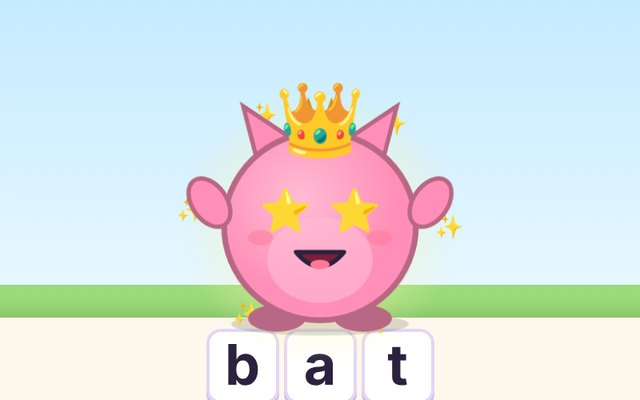
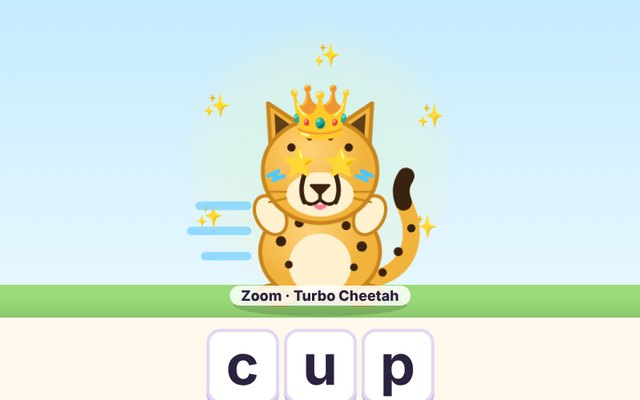
Word Pet: the pet is now a cheetah that evolves (cub, young, big, turbo, mega)
Claude-Session: https://claude.ai/code/session_013W1ysGY7CE9QdHXVdGaYx1

Changed region(s): [[0.2812, 0.09, 0.7188, 0.96], [0.5938, 0.87, 0.6562, 1.0], [0.4688, 0.87, 0.5312, 0.96]]

diff --git a/games/pet/index.html b/games/pet/index.html
@@ -102,11 +102,11 @@ const save=()=>{try{localStorage.setItem(SKEY,JSON.stringify(S))}catch(e){}};
 (function decay(){const h=(Date.now()-(S.lastFed||Date.now()))/36e5;S.food=Math.max(0,Math.round(S.food-h*8));S.lastFed=Date.now();save()})();
 setInterval(()=>{S.food=Math.max(0,S.food-1);S.lastFed=Date.now();save();drawPet();meters()},450000);
 
-const STAGES=[{at:0,n:'Egg',em:'🥚'},{at:5,n:'Baby',em:'🐣'},{at:30,n:'Little',em:'🌱'},{at:80,n:'Big',em:'🌿'},{at:160,n:'Super',em:'⭐'},{at:300,n:'Mega',em:'👑'}];
+const STAGES=[{at:0,n:'Egg',em:'🥚'},{at:5,n:'Cub',em:'🐾'},{at:30,n:'Young Cheetah',em:'🐆'},{at:80,n:'Big Cheetah',em:'🐆'},{at:160,n:'Turbo Cheetah',em:'⚡'},{at:300,n:'Mega Cheetah',em:'👑'}];
 const stageOf=w=>{let s=0;STAGES.forEach((x,i)=>{if(w>=x.at)s=i});return s};
 const GIFTS=[{id:'bow',n:'a bow',em:'🎀'},{id:'shades',n:'cool glasses',em:'🕶'},{id:'cap',n:'a cap',em:'🧢'},{id:'flower',n:'a flower',em:'🌸'},{id:'tophat',n:'a top hat',em:'🎩'},{id:'crown',n:'a crown',em:'👑'},{id:'cape',n:'a hero cape',em:'🦸'},{id:'party',n:'a party hat',em:'🥳'}];
 const COLORS=['#FF8FB8','#7FD3FF','#9BE36D','#FFB547','#B79BFF','#5FE0C8'];
-const NAMES=[['Ziggy','⚡'],['Mochi','🍡'],['Bloop','💧'],['Pip','🌟']];
+const NAMES=[['Zoom','⚡'],['Spots','🐾'],['Dash','💨'],['Rocket','🚀']];
 
 /* ================= speech ================= */
 let voice=null;function pv(){try{const v=speechSynthesis.getVoices().filter(v=>/^en/i.test(v.lang));voice=v.find(x=>/samantha|google us english|aria|jenny|ava|allison/i.test(x.name))||v.find(x=>/en.us/i.test(x.lang))||v[0]||null}catch(e){}}
@@ -125,43 +125,60 @@ function mood(){const h=new Date().getHours();if(S.stage===0)return'egg';if(mood
 let moodOverride=null;
 function shade(hex,f){const n=parseInt(hex.slice(1),16);let r=n>>16,g=n>>8&255,b=n&255;const c=v=>Math.max(0,Math.min(255,Math.round(f<0?v*(1+f):v+(255-v)*f)));return'#'+((1<<24)+(c(r)<<16)+(c(g)<<8)+c(b)).toString(16).slice(1)}
 function accNow(){const a=S.acc.slice(-20);return a.length?a.reduce((x,y)=>x+y,0)/a.length:0}
-function drawPet(){const svg=$('#pet');const st=S.stage,md=mood(),c=S.color||'#FF8FB8',d=shade(c,-.28),l=shade(c,.4);let o='';
+/* the cheetah: egg, then cub, young, big cat, turbo and mega, drawn fresh for each mood */
+const SPOTS=[[78,70,3.2],[92,62,2.6],[108,62,2.6],[122,70,3.2],[100,56,2.2],[70,142,4],[84,128,3.5],[120,130,3.5],[132,146,4],[76,160,3],[126,162,3],[100,124,3]];
+function drawPet(){const svg=$('#pet');const st=S.stage,md=mood();let o='';
+ const G='#F2B33D',GD='#C9851C',CR='#FFF1D0',DK='#3A2210';
  const acc=accNow(),aura=st>0&&S.acc.length>=8?(acc>=.9?2:acc>=.75?1:0):0;
- o+=`<defs><radialGradient id="g1" cx="40%" cy="35%"><stop offset="0" stop-color="${l}"/><stop offset="1" stop-color="${c}"/></radialGradient><radialGradient id="au"><stop offset="0" stop-color="#FFF6B0" stop-opacity=".9"/><stop offset="1" stop-color="#FFF6B0" stop-opacity="0"/></radialGradient></defs>`;
- o+=`<ellipse cx="100" cy="190" rx="${st===0?38:44+st*6}" ry="8" fill="rgba(0,0,0,.15)"/>`;
- if(st===0){const cr=Math.min(5,S.words);o+=`<ellipse cx="100" cy="125" rx="52" ry="64" fill="url(#g1)" stroke="${d}" stroke-width="4"/><circle cx="80" cy="105" r="9" fill="${l}"/><circle cx="118" cy="140" r="12" fill="${l}"/><circle cx="112" cy="92" r="6" fill="${l}"/>`;
-  if(cr>=2)o+=`<path d="M70 120l10 8 8-10 10 10" fill="none" stroke="${d}" stroke-width="4" stroke-linecap="round"/>`;if(cr>=4)o+=`<path d="M108 100l8 10 10-6 6 12" fill="none" stroke="${d}" stroke-width="4" stroke-linecap="round"/>`;
-  svg.innerHTML=o;return}
- const R=Math.min(80,46+st*7),cy=190-R*1.02;
- if(aura)o+=`<circle cx="100" cy="${cy}" r="${R*1.45}" fill="url(#au)" opacity="${aura===2?1:.55}"/>`;
- if(aura===2)for(let i=0;i<6;i++){const a=i/6*6.28+Date.now()/3000;o+=`<text x="${100+Math.cos(a)*R*1.35}" y="${cy+Math.sin(a)*R*1.2}" font-size="16" text-anchor="middle">✨</text>`}
- if(S.wear==='cape')o+=`<path d="M${100-R*.7} ${cy-R*.2}Q100 ${cy+R*1.3} ${100+R*.7} ${cy-R*.2}L${100+R*.95} ${cy+R}L${100-R*.95} ${cy+R}Z" fill="#E23A5A"/>`;
- if(st>=4){o+=`<path d="M${100-R*.8} ${cy}C${100-R*1.8} ${cy-R*.9} ${100-R*1.9} ${cy+R*.3} ${100-R*.85} ${cy+R*.35}Z" fill="${l}" stroke="${d}" stroke-width="3"/><path d="M${100+R*.8} ${cy}C${100+R*1.8} ${cy-R*.9} ${100+R*1.9} ${cy+R*.3} ${100+R*.85} ${cy+R*.35}Z" fill="${l}" stroke="${d}" stroke-width="3"/>`}
- if(st>=2){o+=`<path d="M${100-R*.62} ${cy-R*.55}L${100-R*.8} ${cy-R*1.25}L${100-R*.2} ${cy-R*.85}Z" fill="${c}" stroke="${d}" stroke-width="3"/><path d="M${100+R*.62} ${cy-R*.55}L${100+R*.8} ${cy-R*1.25}L${100+R*.2} ${cy-R*.85}Z" fill="${c}" stroke="${d}" stroke-width="3"/>`}
- /* feet + body */
- o+=`<ellipse cx="${100-R*.45}" cy="186" rx="${R*.3}" ry="${R*.14}" fill="${d}"/><ellipse cx="${100+R*.45}" cy="186" rx="${R*.3}" ry="${R*.14}" fill="${d}"/>`;
- o+=`<ellipse cx="100" cy="${cy}" rx="${R}" ry="${R*.98}" fill="url(#g1)" stroke="${d}" stroke-width="4"/><ellipse cx="100" cy="${cy+R*.35}" rx="${R*.55}" ry="${R*.45}" fill="${l}" opacity=".6"/>`;
- if(st>=3)o+=`<path d="M${100-R*.25} ${cy-R*.92}L${100-R*.12} ${cy-R*1.3}L100 ${cy-R*.95}L${100+R*.12} ${cy-R*1.3}L${100+R*.25} ${cy-R*.92}" fill="#FFD23F" stroke="#C79A12" stroke-width="2"/>`;
- if(st>=5)o+=`<circle cx="100" cy="${cy+R*.3}" r="${R*.14}" fill="#FFD23F" stroke="#C79A12" stroke-width="2"/>`;
- /* arms */
- const up=md==='excited';o+=`<ellipse cx="${100-R*.98}" cy="${cy+(up?-R*.3:R*.15)}" rx="${R*.18}" ry="${R*.28}" fill="${c}" stroke="${d}" stroke-width="3" transform="rotate(${up?-35:20} ${100-R*.98} ${cy})"/><ellipse cx="${100+R*.98}" cy="${cy+(up?-R*.3:R*.15)}" rx="${R*.18}" ry="${R*.28}" fill="${c}" stroke="${d}" stroke-width="3" transform="rotate(${up?35:-20} ${100+R*.98} ${cy})"/>`;
- /* face by mood */
- const ex=R*.36,ey=cy-R*.15,er=R*.2;
- if(md==='sleepy'){o+=`<path d="M${100-ex-er} ${ey}q${er} ${er*.6} ${er*2} 0M${100+ex-er} ${ey}q${er} ${er*.6} ${er*2} 0" stroke="#2B2240" stroke-width="4" fill="none" stroke-linecap="round"/><text x="${100+R*.9}" y="${cy-R*.9}" font-size="22" font-weight="800" fill="#7A5CFF">z z</text>`}
- else if(md==='excited'){[-1,1].forEach(s=>o+=`<text x="${100+s*ex}" y="${ey+er*.7}" font-size="${er*2.2}" text-anchor="middle">⭐</text>`)}
- else if(md==='happy'){[-1,1].forEach(s=>o+=`<ellipse cx="${100+s*ex}" cy="${ey}" rx="${er*.85}" ry="${er}" fill="#fff" stroke="#2B2240" stroke-width="2"/><circle cx="${100+s*ex+er*.15}" cy="${ey+er*.15}" r="${er*.55}" fill="#2B2240"/><circle cx="${100+s*ex+er*.35}" cy="${ey-er*.2}" r="${er*.2}" fill="#fff"/>`)}
- else{[-1,1].forEach(s=>o+=`<ellipse cx="${100+s*ex}" cy="${ey}" rx="${er*.8}" ry="${er*.9}" fill="#fff" stroke="#2B2240" stroke-width="2"/><circle cx="${100+s*ex}" cy="${ey+er*.3}" r="${er*.45}" fill="#2B2240"/>`);
-  if(md==='oops')o+=`<path d="M${100-ex-er} ${ey-er*1.3}l${er*1.6} ${er*.5}M${100+ex+er} ${ey-er*1.3}l-${er*1.6} ${er*.5}" stroke="#2B2240" stroke-width="4" stroke-linecap="round"/>`}
- const my=cy+R*.3;
- if(md==='hungry')o+=`<ellipse cx="100" cy="${my}" rx="${R*.22}" ry="${R*.2}" fill="#7A1E3A"/><ellipse cx="100" cy="${my+R*.08}" rx="${R*.12}" ry="${R*.08}" fill="#FF7A9A"/><path d="M${100+R*.18} ${my+R*.1}q4 14 0 18" stroke="#7FD3FF" stroke-width="5" fill="none" stroke-linecap="round"/>`;
- else if(md==='oops')o+=`<path d="M${100-R*.18} ${my+R*.08}q${R*.18} -${R*.14} ${R*.36} 0" stroke="#2B2240" stroke-width="4" fill="none" stroke-linecap="round"/>`;
- else if(md==='sleepy')o+=`<ellipse cx="100" cy="${my}" rx="${R*.08}" ry="${R*.06}" fill="#7A1E3A"/>`;
- else o+=`<path d="M${100-R*.25} ${my-R*.03}q${R*.25} ${R*.3} ${R*.5} 0z" fill="#7A1E3A" stroke="#2B2240" stroke-width="3" stroke-linejoin="round"/><ellipse cx="100" cy="${my+R*.1}" rx="${R*.1}" ry="${R*.05}" fill="#FF7A9A"/>`;
- o+=`<ellipse cx="${100-R*.62}" cy="${cy+R*.12}" rx="${R*.13}" ry="${R*.08}" fill="#FF7A9A" opacity=".55"/><ellipse cx="${100+R*.62}" cy="${cy+R*.12}" rx="${R*.13}" ry="${R*.08}" fill="#FF7A9A" opacity=".55"/>`;
- /* what it's wearing */
- const top=cy-R*.95;const W={bow:`<text x="${100+R*.45}" y="${top+R*.15}" font-size="${R*.55}" text-anchor="middle">🎀</text>`,shades:`<text x="100" y="${ey+er*.8}" font-size="${R*.7}" text-anchor="middle">🕶</text>`,cap:`<text x="100" y="${top+R*.2}" font-size="${R*.75}" text-anchor="middle">🧢</text>`,flower:`<text x="${100-R*.45}" y="${top+R*.2}" font-size="${R*.5}" text-anchor="middle">🌸</text>`,tophat:`<text x="100" y="${top+R*.1}" font-size="${R*.8}" text-anchor="middle">🎩</text>`,crown:`<text x="100" y="${top+R*.1}" font-size="${R*.75}" text-anchor="middle">👑</text>`,party:`<text x="100" y="${top+R*.05}" font-size="${R*.8}" text-anchor="middle">🥳</text>`,cape:''};
+ o+=`<defs><radialGradient id="cg" cx="40%" cy="30%"><stop offset="0" stop-color="#FFD27A"/><stop offset="1" stop-color="${G}"/></radialGradient><radialGradient id="au"><stop offset="0" stop-color="${st>=5?'#FFE27A':'#BFF4FF'}" stop-opacity=".95"/><stop offset="1" stop-color="#FFF6B0" stop-opacity="0"/></radialGradient></defs>`;
+ const sc=[1,.6,.72,.84,.93,1][st];
+ o+=`<ellipse cx="100" cy="191" rx="${st===0?38:58*sc+8}" ry="8" fill="rgba(0,0,0,.15)"/>`;
+ if(st===0){const cr=Math.min(5,S.words);o+=`<ellipse cx="100" cy="125" rx="52" ry="64" fill="url(#cg)" stroke="${GD}" stroke-width="4"/>`+[[80,100,7],[118,92,5],[112,140,8],[84,150,5],[100,118,4],[126,120,5],[72,126,4]].map(([x,y,r])=>`<circle cx="${x}" cy="${y}" r="${r}" fill="${DK}" opacity=".75"/>`).join('');
+  if(cr>=2)o+=`<path d="M70 120l10 8 8-10 10 10" fill="none" stroke="${DK}" stroke-width="4" stroke-linecap="round"/>`;if(cr>=4)o+=`<path d="M108 100l8 10 10-6 6 12" fill="none" stroke="${DK}" stroke-width="4" stroke-linecap="round"/>`;svg.innerHTML=o;return}
+ if(aura)o+=`<circle cx="100" cy="${190-110*sc}" r="${110*sc}" fill="url(#au)" opacity="${aura===2?1:.55}"/>`;
+ if(aura===2)for(let i=0;i<6;i++){const a=i/6*6.28+Date.now()/3000;o+=`<text x="${100+Math.cos(a)*95*sc}" y="${190-100*sc+Math.sin(a)*85*sc}" font-size="16" text-anchor="middle">✨</text>`}
+ /* turbo and mega cheetahs leave speed streaks */
+ if(st>=4)o+=`<g opacity=".8"><path d="M14 120h34M8 138h40M18 156h30" stroke="${st>=5?'#FFD23F':'#7FD3FF'}" stroke-width="6" stroke-linecap="round"/></g>`;
+ o+=`<g transform="translate(100 190) scale(${sc}) translate(-100 -190)">`;
+ if(S.wear==='cape')o+=`<path d="M64 112Q100 210 136 112L150 186L50 186Z" fill="#E23A5A"/>`;
+ /* tail */
+ o+=`<path d="M128 172C168 172 178 140 164 112" fill="none" stroke="${G}" stroke-width="13" stroke-linecap="round"/><path d="M164 112c-3-8-2-14 2-20" fill="none" stroke="${DK}" stroke-width="13" stroke-linecap="round"/><circle cx="160" cy="150" r="3.5" fill="${DK}"/><circle cx="170" cy="132" r="3.2" fill="${DK}"/><circle cx="148" cy="166" r="3.2" fill="${DK}"/>`;
+ /* body, back paws, belly */
+ o+=`<ellipse cx="68" cy="183" rx="17" ry="8" fill="${G}" stroke="${GD}" stroke-width="2.5"/><ellipse cx="132" cy="183" rx="17" ry="8" fill="${G}" stroke="${GD}" stroke-width="2.5"/>`;
+ o+=`<ellipse cx="100" cy="150" rx="${st>=3?46:42}" ry="38" fill="url(#cg)" stroke="${GD}" stroke-width="3"/><ellipse cx="100" cy="160" rx="24" ry="24" fill="${CR}"/>`;
+ SPOTS.slice(5).forEach(([x,y,r])=>o+=`<circle cx="${x}" cy="${y}" r="${r}" fill="${DK}" ${st>=5?'stroke="#FFD23F" stroke-width="1.5"':''}/>`);
+ /* front paws (up in the air when excited) */
+ const up=md==='excited';
+ if(up)o+=`<ellipse cx="62" cy="122" rx="11" ry="16" fill="${CR}" stroke="${GD}" stroke-width="2.5" transform="rotate(-30 62 122)"/><ellipse cx="138" cy="122" rx="11" ry="16" fill="${CR}" stroke="${GD}" stroke-width="2.5" transform="rotate(30 138 122)"/>`;
+ else o+=`<ellipse cx="86" cy="176" rx="11" ry="14" fill="${CR}" stroke="${GD}" stroke-width="2.5"/><ellipse cx="114" cy="176" rx="11" ry="14" fill="${CR}" stroke="${GD}" stroke-width="2.5"/><path d="M82 186v-5M86 187v-5M90 186v-5M110 186v-5M114 187v-5M118 186v-5" stroke="${GD}" stroke-width="1.8" stroke-linecap="round"/>`;
+ /* head: cubs have big heads */
+ const hs=[1,1.22,1.12,1.04,1,1][st];o+=`<g transform="translate(100 96) scale(${hs}) translate(-100 -96)">`;
+ o+=`<path d="M62 70L60 36L90 56Z" fill="${G}" stroke="${GD}" stroke-width="3" stroke-linejoin="round"/><path d="M138 70L140 36L110 56Z" fill="${G}" stroke="${GD}" stroke-width="3" stroke-linejoin="round"/><path d="M66 62L65 44L82 56Z" fill="${DK}" opacity=".8"/><path d="M134 62L135 44L118 56Z" fill="${DK}" opacity=".8"/>`;
+ o+=`<ellipse cx="100" cy="88" rx="44" ry="40" fill="url(#cg)" stroke="${GD}" stroke-width="3"/>`;
+ if(st<=1)o+=`<path d="M84 52q4-10 8-2q4-10 8 0q4-10 8 2" fill="none" stroke="${CR}" stroke-width="5" stroke-linecap="round"/>`;
+ SPOTS.slice(0,5).forEach(([x,y,r])=>o+=`<circle cx="${x}" cy="${y}" r="${r}" fill="${DK}" ${st>=5?'stroke="#FFD23F" stroke-width="1.2"':''}/>`);
+ o+=`<ellipse cx="100" cy="106" rx="26" ry="17" fill="${CR}"/>`;
+ /* the cheetah's black tear lines */
+ o+=`<path d="M89 88C86 96 84 104 88 112" fill="none" stroke="${DK}" stroke-width="3.5" stroke-linecap="round"/><path d="M111 88C114 96 116 104 112 112" fill="none" stroke="${DK}" stroke-width="3.5" stroke-linecap="round"/>`;
+ if(st>=4)o+=`<path d="M60 92l8-4-4 7 8-3" fill="none" stroke="${st>=5?'#FFD23F':'#4DC8FF'}" stroke-width="3" stroke-linecap="round" stroke-linejoin="round"/><path d="M140 92l-8-4 4 7-8-3" fill="none" stroke="${st>=5?'#FFD23F':'#4DC8FF'}" stroke-width="3" stroke-linecap="round" stroke-linejoin="round"/>`;
+ /* eyes by mood */
+ const E=[[84,82],[116,82]];
+ if(md==='sleepy'){o+=E.map(([x,y])=>`<path d="M${x-8} ${y}q8 6 16 0" stroke="${DK}" stroke-width="3.5" fill="none" stroke-linecap="round"/>`).join('')+`<text x="140" y="44" font-size="20" font-weight="800" fill="#7A5CFF">z z</text>`}
+ else if(md==='excited'){o+=E.map(([x,y])=>`<text x="${x}" y="${y+7}" font-size="21" text-anchor="middle">⭐</text>`).join('')}
+ else{o+=E.map(([x,y])=>`<ellipse cx="${x}" cy="${y}" rx="9" ry="10" fill="#fff" stroke="${DK}" stroke-width="2"/><circle cx="${x+1}" cy="${y+1.5}" r="6.2" fill="#E8A317"/><circle cx="${x+1}" cy="${y+1.5}" r="3.4" fill="${DK}"/><circle cx="${x+3}" cy="${y-2}" r="1.8" fill="#fff"/>`).join('');
+  if(md==='oops')o+=`<path d="M74 68l14 5M126 68l-14 5" stroke="${DK}" stroke-width="3.5" stroke-linecap="round"/>`}
+ /* nose + mouth */
+ o+=`<path d="M93 99h14l-7 7z" fill="${DK}" stroke="${DK}" stroke-width="2" stroke-linejoin="round"/>`;
+ if(md==='hungry')o+=`<ellipse cx="100" cy="116" rx="9" ry="8" fill="#7A1E3A"/><ellipse cx="100" cy="119" rx="5" ry="3.5" fill="#FF7A9A"/><path d="M110 116q4 10 0 14" stroke="#7FD3FF" stroke-width="4" fill="none" stroke-linecap="round"/>`;
+ else if(md==='oops')o+=`<path d="M92 117q8-6 16 0" stroke="${DK}" stroke-width="3" fill="none" stroke-linecap="round"/>`;
+ else if(md==='sleepy')o+=`<path d="M100 106v4" stroke="${DK}" stroke-width="2.5" stroke-linecap="round"/>`;
+ else o+=`<path d="M100 106v4M100 110q-6 6-11 2M100 110q6 6 11 2" stroke="${DK}" stroke-width="2.6" fill="none" stroke-linecap="round"/>${md==='excited'||md==='happy'?`<path d="M94 114q6 8 12 0z" fill="#FF7A9A"/>`:''}`;
+ o+=`<path d="M74 104h-14M74 109l-13 3M126 104h14M126 109l13 3" stroke="${GD}" stroke-width="1.6" stroke-linecap="round"/>`;
+ /* what it's wearing (on the head) */
+ const W={bow:`<text x="128" y="58" font-size="26" text-anchor="middle">🎀</text>`,shades:`<text x="100" y="92" font-size="40" text-anchor="middle">🕶</text>`,cap:`<text x="100" y="62" font-size="42" text-anchor="middle">🧢</text>`,flower:`<text x="70" y="60" font-size="24" text-anchor="middle">🌸</text>`,tophat:`<text x="100" y="56" font-size="44" text-anchor="middle">🎩</text>`,crown:`<text x="100" y="56" font-size="40" text-anchor="middle">👑</text>`,party:`<text x="100" y="54" font-size="44" text-anchor="middle">🥳</text>`,cape:''};
  if(S.wear&&W[S.wear])o+=W[S.wear];
- svg.innerHTML=o}
+ if(st>=5&&S.wear!=='crown'&&S.wear!=='tophat'&&S.wear!=='cap'&&S.wear!=='party')o+=`<text x="100" y="54" font-size="30" text-anchor="middle">👑</text>`;
+ o+=`</g></g>`;svg.innerHTML=o}
 
 /* ================= little helpers ================= */
 let bubT=0;function bubble(t,ms){const b=$('#bubble');b.textContent=t;b.classList.add('on');clearTimeout(bubT);bubT=setTimeout(()=>b.classList.remove('on'),ms||2600)}
@@ -224,13 +241,13 @@ function grade(l,ok){S.m[l]=S.m[l]+(ok?(1-S.m[l])*.12:-S.m[l]*.15);const recent=
 function overlay(html){$('#ovc').innerHTML=html;$('#ov').hidden=false}
 function closeOv(){$('#ov').hidden=true}
 async function evolve(from){if(from===0)return hatch();const st=STAGES[S.stage];tone([392,523,659,784,1047,1319]);anim('dance');
- overlay(`<div class="big">✨${STAGES[S.stage].em}✨</div><h1>${S.name} grew!</h1><p style="font-size:22px">Now ${S.name} is a <b>${st.n}</b> pet!</p><button class="btn" id="okb">Yay!</button>`);
- await speak(`Whoa! ${S.name} grew into a ${st.n} pet! Keep reading to grow even more!`);await new Promise(r=>$('#okb').onclick=()=>{closeOv();r()})}
+ overlay(`<div class="big">✨${STAGES[S.stage].em}✨</div><h1>${S.name} evolved!</h1><p style="font-size:22px">Now ${S.name} is a <b>${st.n}</b>!</p><button class="btn" id="okb">Yay!</button>`);
+ await speak(`Whoa! ${S.name} evolved into a ${st.n}! Keep reading to get even faster!`);await new Promise(r=>$('#okb').onclick=()=>{closeOv();r()})}
 async function hatch(){S.color=pick(COLORS);S.stage=1;save();drawPet();meters();tone([523,659,784,1047,1319]);
- overlay(`<div class="big">🐣</div><h1>Your egg hatched!</h1><p style="font-size:20px">Pick a name for your new pet:</p><div class="names">${NAMES.map(n=>`<button data-n="${n[0]}">${n[1]} ${n[0]}</button>`).join('')}</div><button class="btn" id="okb" disabled style="margin-top:14px">That's the one!</button>`);
- await speak('Crack! Your egg hatched! Tap a name to hear it, then pick one for your new pet.');let sel='';
+ overlay(`<div class="big">🐆</div><h1>A baby cheetah!</h1><p style="font-size:20px">Pick a name for your cheetah cub:</p><div class="names">${NAMES.map(n=>`<button data-n="${n[0]}">${n[1]} ${n[0]}</button>`).join('')}</div><button class="btn" id="okb" disabled style="margin-top:14px">That's the one!</button>`);
+ await speak('Crack! Your egg hatched, and it\'s a baby cheetah! Tap a name to hear it, then pick one.');let sel='';
  document.querySelectorAll('[data-n]').forEach(b=>b.onclick=()=>{sel=b.dataset.n;document.querySelectorAll('[data-n]').forEach(x=>x.classList.toggle('on',x===b));speak(sel);$('#okb').disabled=false});
- await new Promise(r=>$('#okb').onclick=()=>{if(!sel)return;S.name=sel;save();closeOv();r()});meters();drawPet();anim('dance');await petSay(`Hi! I'm ${S.name}! I eat words. Read to me and I'll grow big and strong!`)}
+ await new Promise(r=>$('#okb').onclick=()=>{if(!sel)return;S.name=sel;save();closeOv();r()});meters();drawPet();anim('dance');await petSay(`Hi! I'm ${S.name}, the cheetah! I eat words. Read to me and I'll grow big and super fast!`)}
 async function gift(){const left=GIFTS.filter(g=>!S.gifts.includes(g.id));if(!left.length)return;const g=left[0];S.gifts.push(g.id);S.wear=g.id;save();drawPet();tone([784,988,1175,1568]);
  overlay(`<div class="big">🎁</div><h1>A present!</h1><p style="font-size:24px">${S.name} got ${g.n}! ${g.em}</p><button class="btn" id="okb">Put it on!</button>`);await speak(`Ten words! ${S.name} got ${g.n}!`);
  await new Promise(r=>$('#okb').onclick=()=>{closeOv();r()});anim('dance')}
@@ -242,11 +259,11 @@ $('#petWrap').onclick=()=>{if(S.stage===0){anim('wobble');petSay('The egg wiggle
 $('#say').onclick=()=>{if(!cur)return;petSay(cur.kind==='word'?'Read the word. Then feed me the picture that matches!':'Read the sentence. Then feed me the picture that matches!')};
 meters();drawPet();
 setTimeout(async()=>{const m=mood();
- if(S.stage===0)await petSay(S.words?'Keep reading! The egg is almost ready!':'Look, an egg! Read 5 words to hatch it. Read the word, then tap the picture that matches.');
+ if(S.stage===0)await petSay(S.words?'Keep reading! The egg is almost ready!':'Look, a cheetah egg! Read 5 words to hatch it. Read the word, then tap the picture that matches.');
  else if(m==='hungry')await petSay(`I'm sooo hungry! Feed me some words!`);
  else await petSay(pick([`Hi! It's me, ${S.name}! Let's read!`,`Yay, you're back! Read me some words!`]));
  show()},600);
-window.__wp={get S(){return S},get cur(){return cur},chunks,show,nextItem};
+window.__wp={get S(){return S},get cur(){return cur},chunks,show,nextItem,drawPet,setMood:m=>{moodOverride={m,until:Date.now()+9e9}}};
 })();
 </script>
 </body></html>

diff --git a/games/catalog.js b/games/catalog.js
@@ -4,8 +4,8 @@ window.CATALOG=[
   blurb:'Race Speedy Sloth and Turbo Taco! Steer through the right letters to spell each word. Grab ? boxes for bananas, shells and rocket boosts.',kind:'Kart racing'},
  {id:'kingswall',title:"King's Wall",emoji:'👑',bg:['#F2A12E','#7A3A10'],subjects:['Math','Reading','Spelling'],
   blurb:'Goblins, wolves and Big Gary the ogre are coming for the King\'s pudding. Every right answer fires a volley of arrows. Pick powers, beat bosses and upgrade your castle.',kind:'Castle defense'},
- {id:'pet',title:'Word Pet',emoji:'🐣',bg:['#FF8FB8','#7A5CFF'],subjects:['Reading'],
-  blurb:'Hatch a pet that eats words! Read each word and feed it the matching picture. It grows, gets presents and gets hungry when you skip a day.',kind:'Reading pet'},
+ {id:'pet',title:'Word Pet',emoji:'🐆',bg:['#FF8FB8','#7A5CFF'],subjects:['Reading'],
+  blurb:'Hatch a cheetah cub that eats words! Read each word and feed it the matching picture. It evolves into a Turbo and then a Mega Cheetah, and gets hungry when you skip a day.',kind:'Reading pet'},
  {id:'rollbots',title:'Roll Bots',emoji:'🤖',bg:['#1E8FD6','#2A1A6E'],subjects:['Math'],
   blurb:'Battle robots that roll into marbles! Grab the most coins, blast rivals and survive 4 rounds as the arena falls apart. Power Cores and upgrades run on math.',kind:'3D arena battle'},
  {id:'kingdoms',title:'Dawn of Kingdoms',emoji:'🏰',bg:['#3B5BA5','#1E2F5E'],subjects:['Math','Reading','Grammar'],
